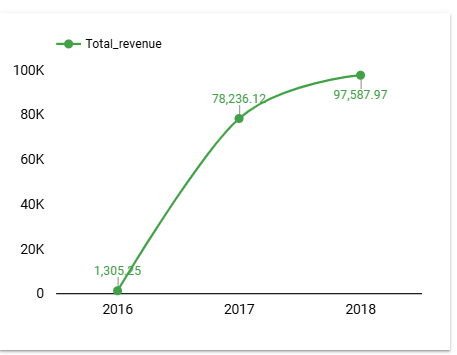
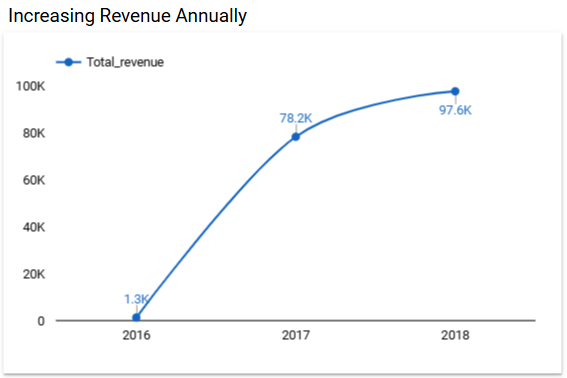
update total revenue annually and revenue contribution

diff --git a/README.md b/README.md
@@ -47,10 +47,18 @@ In this section, I analyzed customer activity over the years to identify growth 
 ## 🌟 Annual Product Category Quality Analysis
 
 This analysis focuses on evaluating the performance of different product categories. Key insights include:
-
-- **Top-Selling Categories:** Identifying products with the highest sales volume.
-- **Customer Feedback & Returns:** Analyzing return rates and customer reviews to assess product quality.
+- **Total Revenue Annually:** Determining total annual revenue.
 - **Revenue Contribution:** Determining which categories contribute most significantly to annual revenue.
+- **Top-Selling Categories:** Identifying products with the highest sales volume.
+- **Top Canceled Categories:** Identifying products with the highest canceled status. 
+<div style="display: flex;"> 
+
+  <div><img src="./images/Total Revenue by year.png" alt="drawing" height = 350 width = 500/></div>
+
+  <div><img src=".\images\Top Categories Revenue.png" alt="drawing" height = 350 width = 500/></div>
+</div>
+
+ The visualization highlights the product categories contributing most to the company’s revenue. In 2018, Watches Gifts emerged as the top contributor, driving a significant portion of total sales. The company's overall revenue showed steady growth year over year 
 
 ---
 
